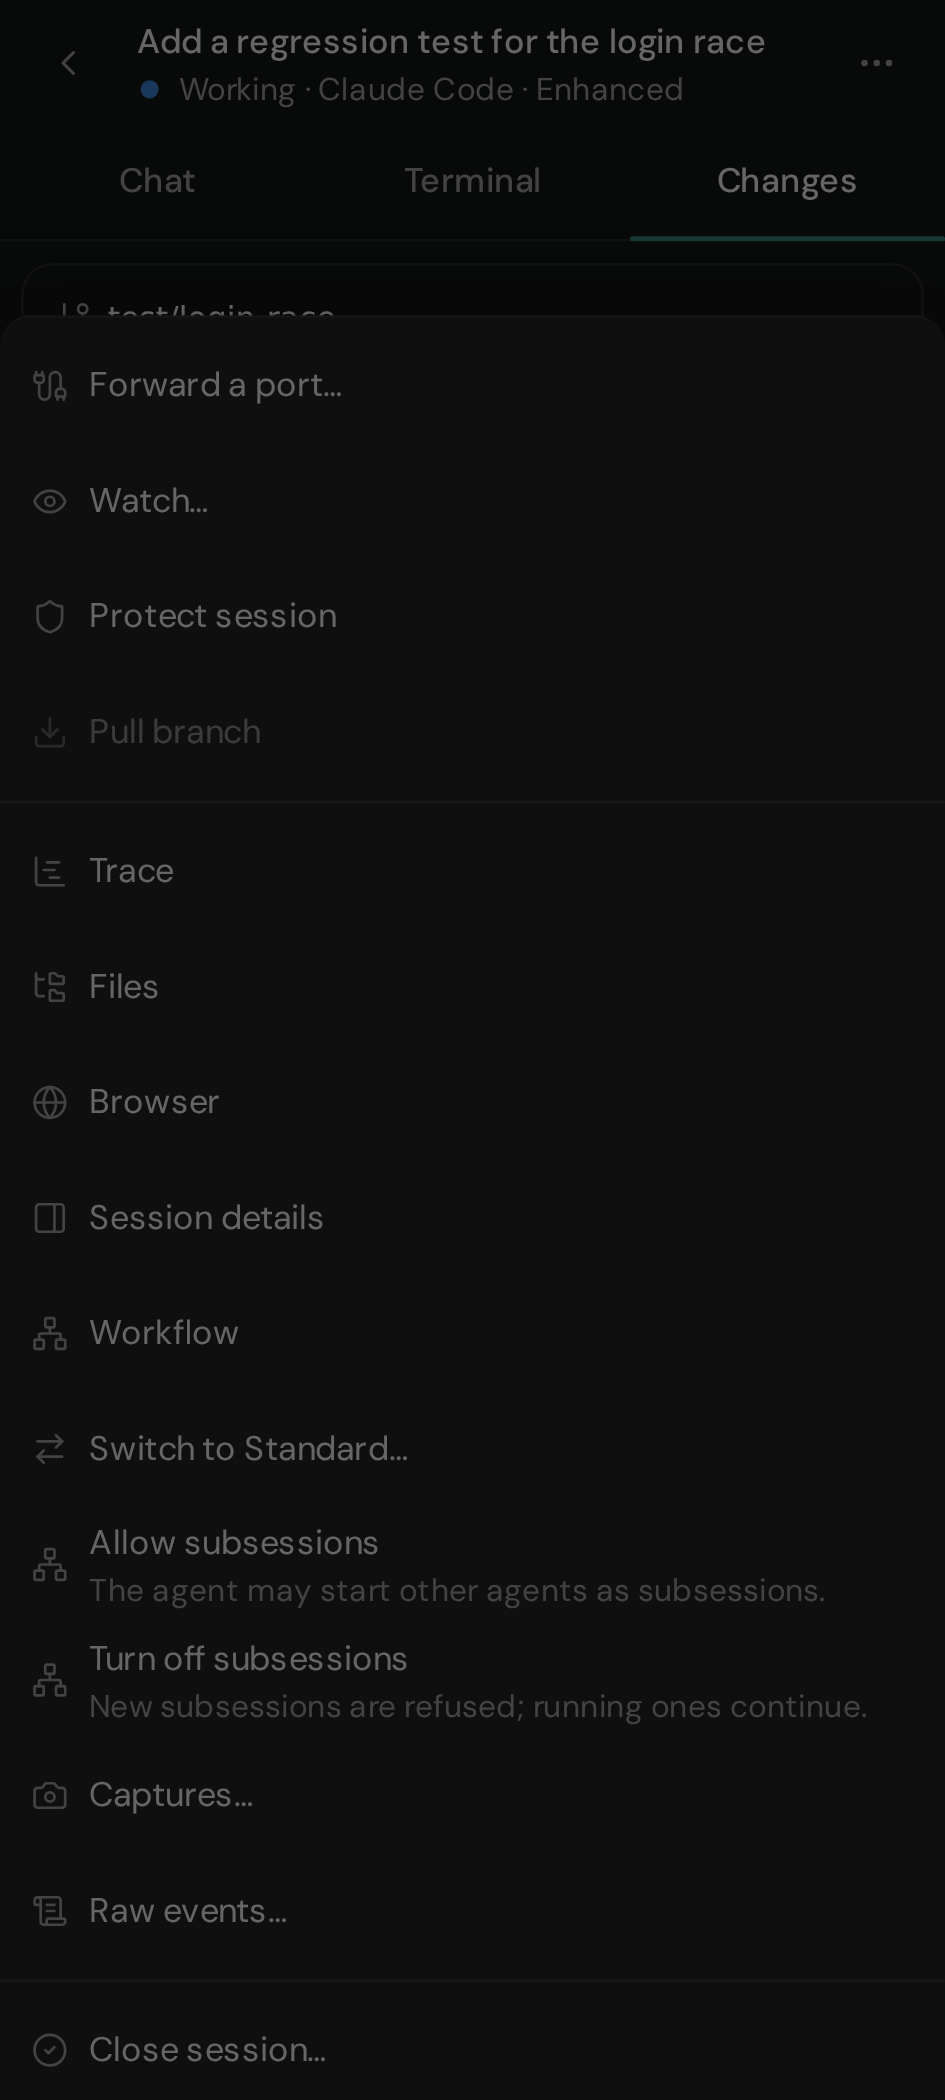
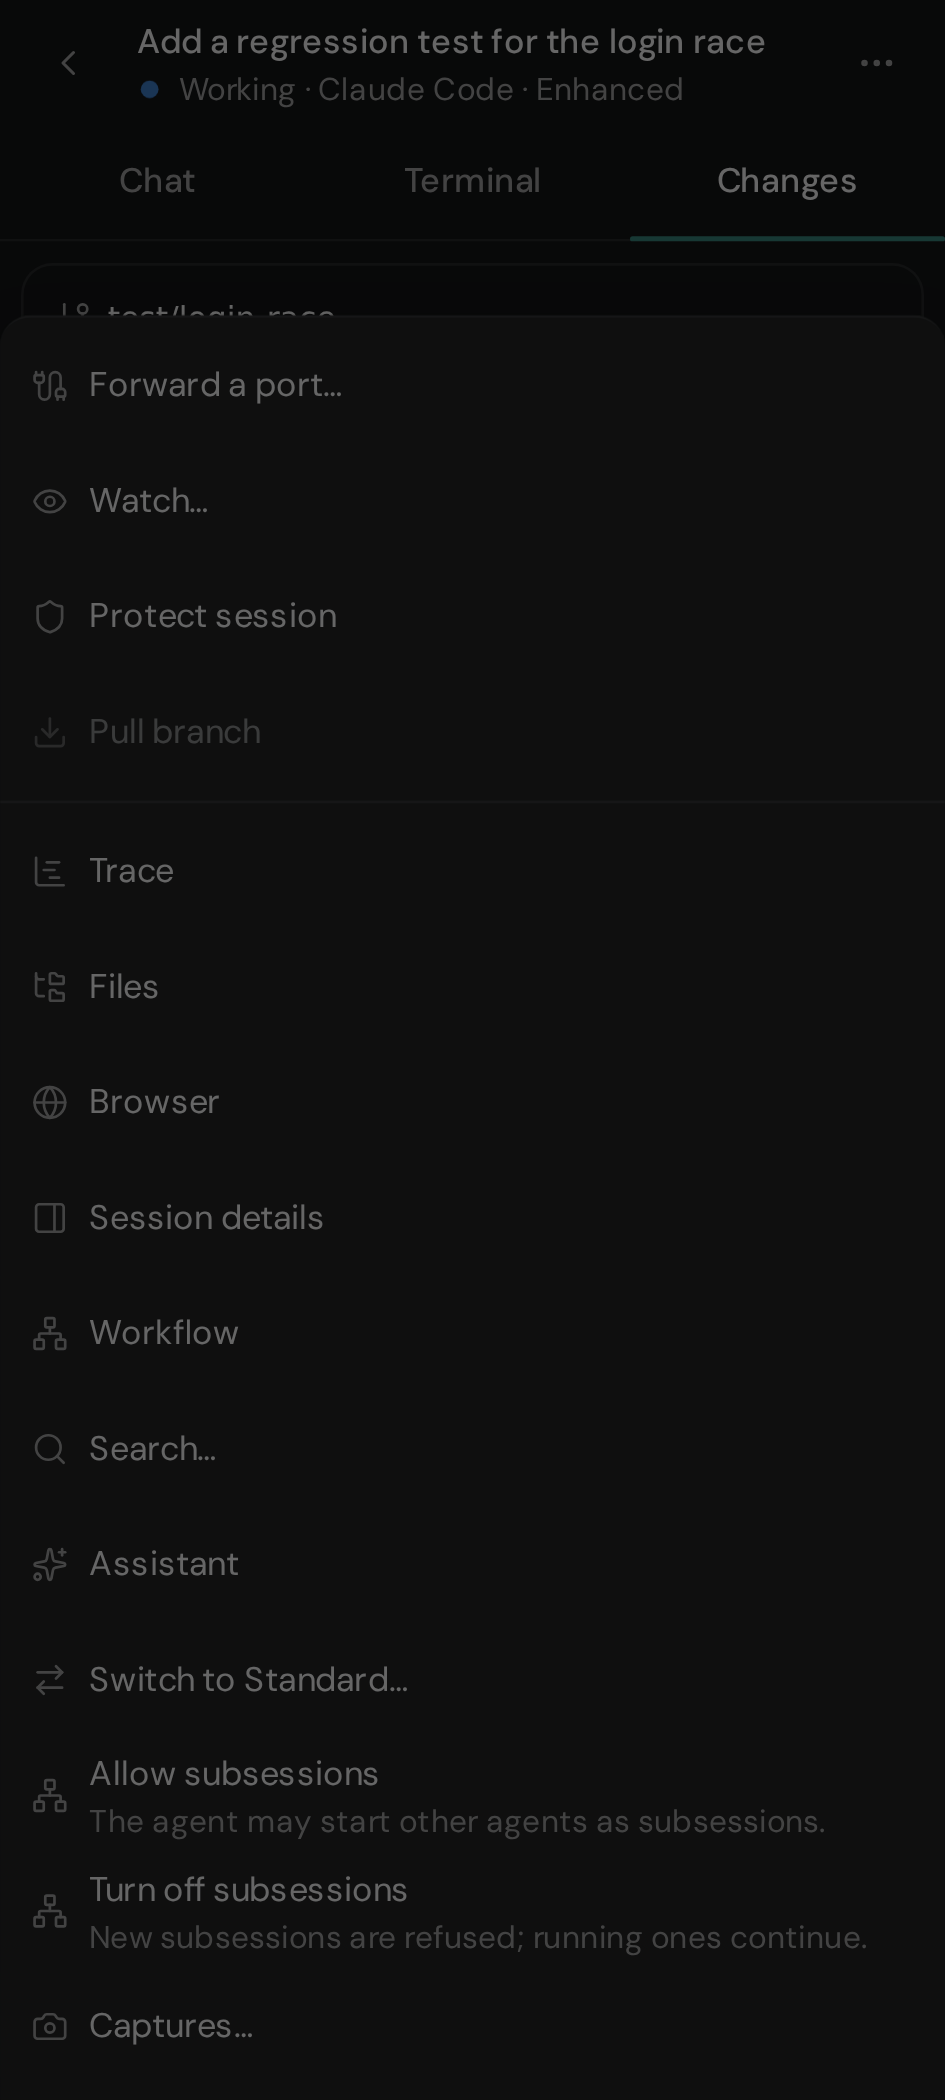
fix(dashboard): keep search, assistant and shared control in a phone session
Review of the phone session screen found that, with the top bar and tab
bar gone, Search and the Assistant were out of reach from a session;
a member's control held in another tab hid the presence strip, leaving
no Take control; and a hidden tab bar set --phone-tabs-height to 0px,
so toasts lost the bottom safe area. More now lists Search and
Assistant, the strip shows whenever control is held outside this tab,
and a hidden bar removes the property. The phone specs that used the
old session top bar, Details button and Browser tab follow the new
layout.

diff --git a/web/src/routes/run/phone-header.tsx b/web/src/routes/run/phone-header.tsx
@@ -1,6 +1,7 @@
 import { useEffect, useState } from 'react'
 import type * as React from 'react'
-import { ChartGantt, ChevronLeft, FolderTree, Globe, Lock, Network, PanelRight } from '@/components/icons'
+import { useAssistantAvailable } from '@/components/assistant/button'
+import { ChartGantt, ChevronLeft, FolderTree, Globe, Lock, Network, PanelRight, Search, Sparkles } from '@/components/icons'
 import { RunActions, type ExtraItem } from '@/components/run-actions'
 import { ConnectionLine } from '@/components/shell/connection'
 import { Button } from '@/components/ui/button'
@@ -47,14 +48,11 @@ export function useTerminalTyping(): boolean {
   return typing
 }
 
-/** Back leaves the session for the page it was opened from, or the session list when it was opened by a link. */
 function leave() {
   if (historyDepth() > 0) window.history.back()
   else useStore.getState().navigate('sessions')
 }
 
-/** A phone's session header: one row with back, title, state and actions, then the Chat / Terminal / Changes tabs.
- * With the keyboard up the tabs go and the row shrinks, so the transcript or terminal keeps the room. */
 export function PhoneRunHeader({ run, view, views, nav, agentName, keyboard, primary, detailsOpen, onDetails, onWorkflow, extra, pullRequest }: {
   run: RunRecord
   view: RunView
@@ -70,6 +68,7 @@ export function PhoneRunHeader({ run, view, views, nav, agentName, keyboard, pri
   pullRequest: React.ReactNode
 }) {
   const shown = useRunPresentation(run)
+  const assistant = useAssistantAvailable()
   const tabs = views.filter((item) => inTabs(item) || item === view)
   const elsewhere: ExtraItem[] = views
     .filter((item): item is OverflowView => !tabs.includes(item))
@@ -77,6 +76,8 @@ export function PhoneRunHeader({ run, view, views, nav, agentName, keyboard, pri
   const panels: ExtraItem[] = [
     { id: 'details', label: detailsOpen ? 'Hide details' : 'Session details', Icon: PanelRight, onSelect: onDetails },
     ...(onWorkflow ? [{ id: 'workflow', label: 'Workflow', Icon: Network, onSelect: onWorkflow }] : []),
+    { id: 'search', label: 'Search…', Icon: Search, onSelect: () => useStore.getState().togglePalette(true) },
+    ...(assistant ? [{ id: 'assistant', label: 'Assistant', Icon: Sparkles, onSelect: () => useStore.getState().setAssistantOpen(true) }] : []),
   ]
   const state = run.switching ? `Switching to ${modeLabel[run.switching] ?? run.switching}…` : stateName(shown)
 

diff --git a/web/e2e/run-room.mobile.spec.ts b/web/e2e/run-room.mobile.spec.ts
@@ -94,8 +94,10 @@ test('a phone opens Run details as a sheet without resizing the run PTY', async 
     const viewport = page.viewportSize()
     expect(viewport).not.toBeNull()
     const beforeOpen = await sessionGeometry()
-    const opener = page.getByRole('button', { name: 'Show details', exact: true })
+    // A phone lists Details under the session's More, which keeps focus when the sheet closes.
+    const opener = page.getByRole('button', { name: 'More', exact: true })
     await opener.tap()
+    await page.getByRole('menuitem', { name: 'Session details' }).tap()
     const details = page.getByRole('dialog', { name: 'Session details' })
     await expect(details).toBeVisible()
     await expect.poll(async () => {
@@ -228,11 +230,8 @@ test('incoming control decisions stay usable over Run details and Captures', asy
       await page.setViewportSize({ width, height: 844 })
       await expect(page.getByRole('button', { name: 'Release', exact: true })).toBeVisible()
       const room = surface === 'Details'
-      if (room) await page.getByRole('button', { name: 'Show details', exact: true }).tap()
-      else {
-        await page.getByRole('button', { name: 'More', exact: true }).tap()
-        await page.getByRole('menuitem', { name: 'Captures…' }).tap()
-      }
+      await page.getByRole('button', { name: 'More', exact: true }).tap()
+      await page.getByRole('menuitem', { name: room ? 'Session details' : 'Captures…' }).tap()
       const panel = page.getByRole('dialog', { name: room ? 'Session details' : 'Captures', exact: true })
       await expect(panel).toBeVisible()
       if (room) await panel.getByRole('textbox', { name: 'Add a note' }).fill('Keep this interrupted draft')

diff --git a/web/e2e/shell-drawer.mobile.spec.ts b/web/e2e/shell-drawer.mobile.spec.ts
@@ -36,14 +36,11 @@ test('the Sessions tab opens a run full screen', async ({ page, aether }) => {
     page.getByRole('heading', { name: 'read the deployment log', exact: true }),
   ).toBeVisible()
 
-  // Focus lands on the run. The top bar says Session, so
-  // the title shows once, in the run header, and its controls are finger-sized.
+  // Focus lands on the run, which opens over the top bar, and Back is finger-sized.
   await expect(page.getByRole('heading', { level: 1 })).toBeFocused()
-  const bar = page.getByRole('banner')
-  await expect(bar).toContainText('Session')
-  await expect(bar).not.toContainText('read the deployment log')
-  const search = bar.getByRole('button', { name: 'Search', exact: true })
-  expect((await search.boundingBox())?.height ?? 0).toBeGreaterThanOrEqual(40)
+  await expect(page.getByRole('banner')).toHaveCount(0)
+  const back = page.getByRole('button', { name: 'Back', exact: true })
+  expect((await back.boundingBox())?.height ?? 0).toBeGreaterThanOrEqual(40)
 
   // The shell still fits the phone in both directions.
   const overflow = await page.evaluate(() =>

diff --git a/web/src/routes/run/multiplayer-controls.tsx b/web/src/routes/run/multiplayer-controls.tsx
@@ -37,14 +37,14 @@ export function usePresenceSummary(run: RunRecord, agent: AgentTerminal): string
   return stale ? `${who} (last known)` : who
 }
 
-/** Someone else watches or controls the session, or control or presence failed: what a phone keeps the strip for. */
+/** Someone else watches, another member or tab holds control, or control or presence failed: what a phone keeps the strip for. */
 export function useSharedPresence(run: RunRecord, agent: AgentTerminal): boolean {
   const self = useSelf()
   const status = useStore((s) => s.roomStatus[run.id])
   const presenceError = useStore((s) => s.roomStatusError[run.id])
   const session = useStore((s) => s.acpSessions[run.id])
   if (presenceError || session?.controlError || session?.takeoverError || session?.streamError) return true
-  if (!agent.localControl && status?.controller && status.controller.member_id !== self.id) return true
+  if (!agent.localControl && status?.controller) return true
   return status?.watchers.some((id) => id !== self.id) ?? false
 }
 

diff --git a/web/e2e/run-views.mobile.spec.ts b/web/e2e/run-views.mobile.spec.ts
@@ -54,10 +54,13 @@ test('a phone protects a run from More and reads its changes', async ({
   const pane = page.locator('.xterm-rows:not([data-aether-frozen-view] *)')
   await expect(pane).toContainText('agent-ready', { timeout: 3 * 60 * 1000 })
 
-  // Browser is offered before any browser has started for the run.
+  // Browser is offered under More before any browser has started for the
+  // run, and joins the tabs while it shows.
+  await actions.tap()
+  await menu.getByRole('menuitem', { name: 'Browser' }).tap()
   for (const name of ['Browser', 'Chat', 'Changes']) {
     const tab = page.getByRole('tab', { name, exact: true })
-    await tab.tap()
+    if (name !== 'Browser') await tab.tap()
     await expect(tab).toHaveAttribute('aria-selected', 'true')
     await expect.poll(() => tab.evaluate((element) => {
       const strip = element.closest('[role="tablist"]')!.getBoundingClientRect()

diff --git a/web/src/components/shell/phone-tab-bar.tsx b/web/src/components/shell/phone-tab-bar.tsx
@@ -121,7 +121,11 @@ export function PhoneTabBar() {
     const element = bar.current
     if (!element) return
     const root = document.documentElement
-    const observer = new ResizeObserver(() => root.style.setProperty('--phone-tabs-height', `${element.offsetHeight}px`))
+    const observer = new ResizeObserver(() => {
+      // A hidden bar leaves the toasts to the bottom safe area.
+      if (element.offsetHeight > 0) root.style.setProperty('--phone-tabs-height', `${element.offsetHeight}px`)
+      else root.style.removeProperty('--phone-tabs-height')
+    })
     observer.observe(element)
     return () => {
       observer.disconnect()

diff --git a/web/src/components/shell/app-shell.tsx b/web/src/components/shell/app-shell.tsx
@@ -23,7 +23,6 @@ export function AppShell() {
   const profileOpen = useStore((s) => s.profileOpen)
   const setProfileOpen = useStore((s) => s.setProfileOpen)
   const mobile = useIsMobile()
-  // A phone opens a session full screen, over the top bar and the tab bar.
   const stacked = useStore((s) => mobile && s.route.name === 'run')
   return (
     <div className="flex h-full min-h-0 flex-col bg-canvas text-ui text-text">

diff --git a/docs/dashboard-frontend.md b/docs/dashboard-frontend.md
@@ -599,8 +599,8 @@ title with its protection lock, a state line (status dot, state, agent and
 mode), the header's primary action when there is one, and **More**. Under it
 the tabs **Chat**, **Terminal** and **Changes** fill a 44px row, with the
 pull request at its right end. Trace, Files and Browser, **Session details**,
-**Workflow**, Captures and Raw events are items in **More**; a view opened
-from there joins the tabs while it shows. Close, Stop and Delete in **More**
+**Workflow**, **Search…**, **Assistant**, Captures and Raw events are items
+in **More**; a view opened from there joins the tabs while it shows. Close, Stop and Delete in **More**
 are the same commands, with the same confirmations, as on desktop.
 
 Without a `view` in the address a phone lands on `defaultView`, never on the
@@ -615,9 +615,11 @@ While the keyboard is up (the composer has focus, or the terminal's input on
 a touch screen), the header shrinks to one 44px row with the title and the
 status dot, and the tabs, the wait line, the lineage line and the
 [multiplayer strip](#multiplayer-controls) leave. On a phone the strip shows
-only while someone else watches or controls the session, or control,
-presence or the stream failed (`useSharedPresence`); alone, sending a
-message takes control implicitly and Details lists the people. The Chat
+only while someone else watches, another member or another of your tabs
+holds control, or control, presence or the stream failed
+(`useSharedPresence`); alone, sending a message takes control implicitly and
+Details lists the people. A hidden tab bar removes `--phone-tabs-height`, so
+toasts fall back to the bottom safe area. The Chat
 composer is the desktop `ComposerBox`, padded by `--keyboard-inset`
 (`src/lib/keyboard-inset.ts`) so it sits above an iOS keyboard as well.
 
